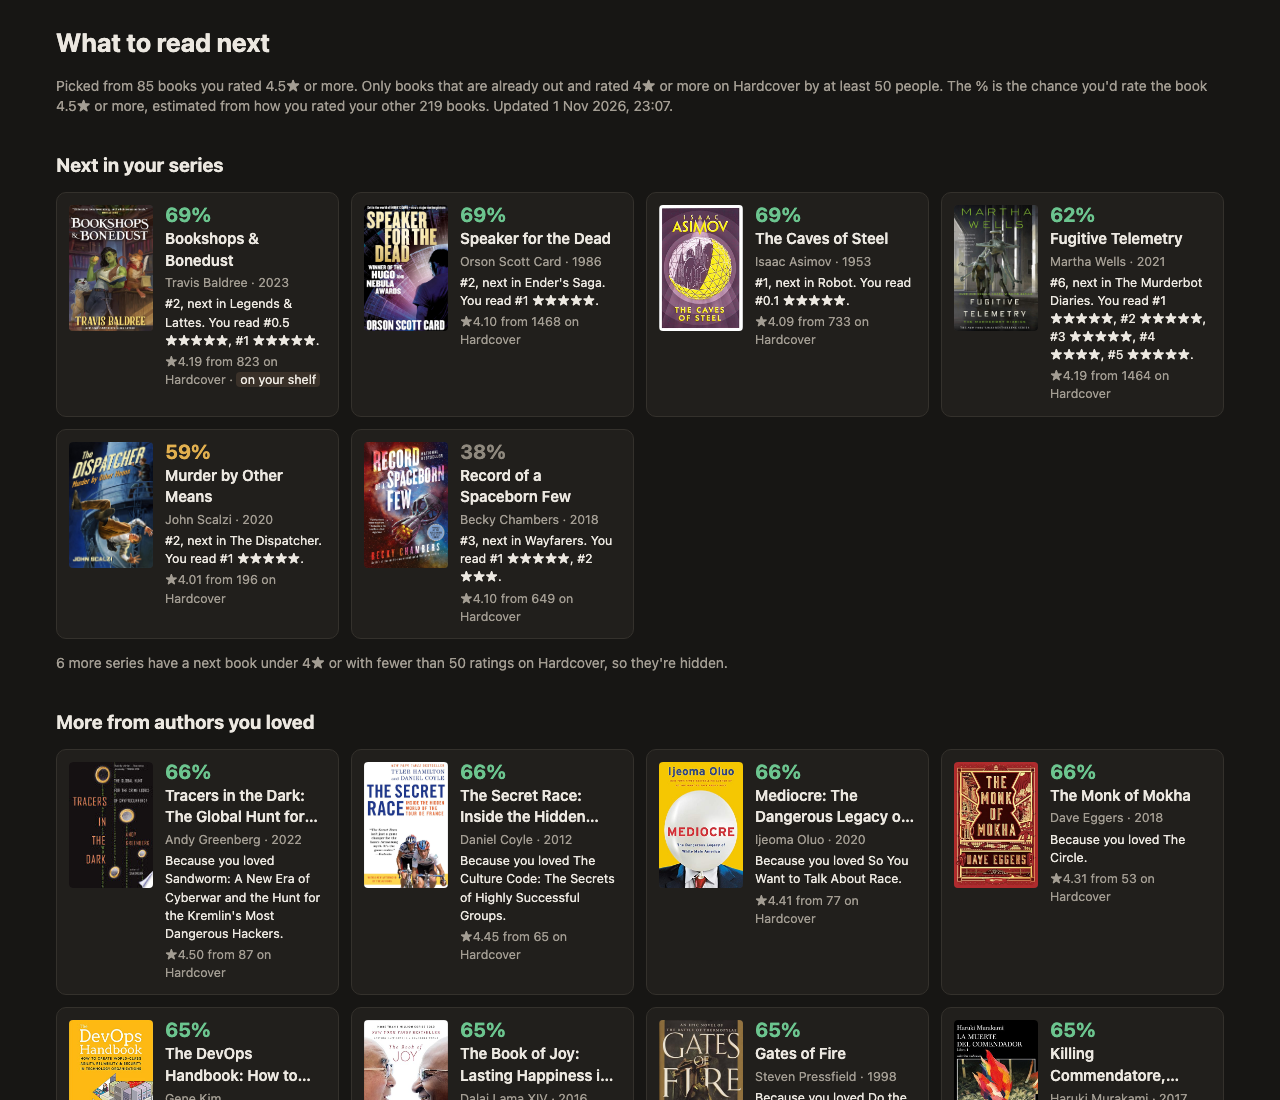
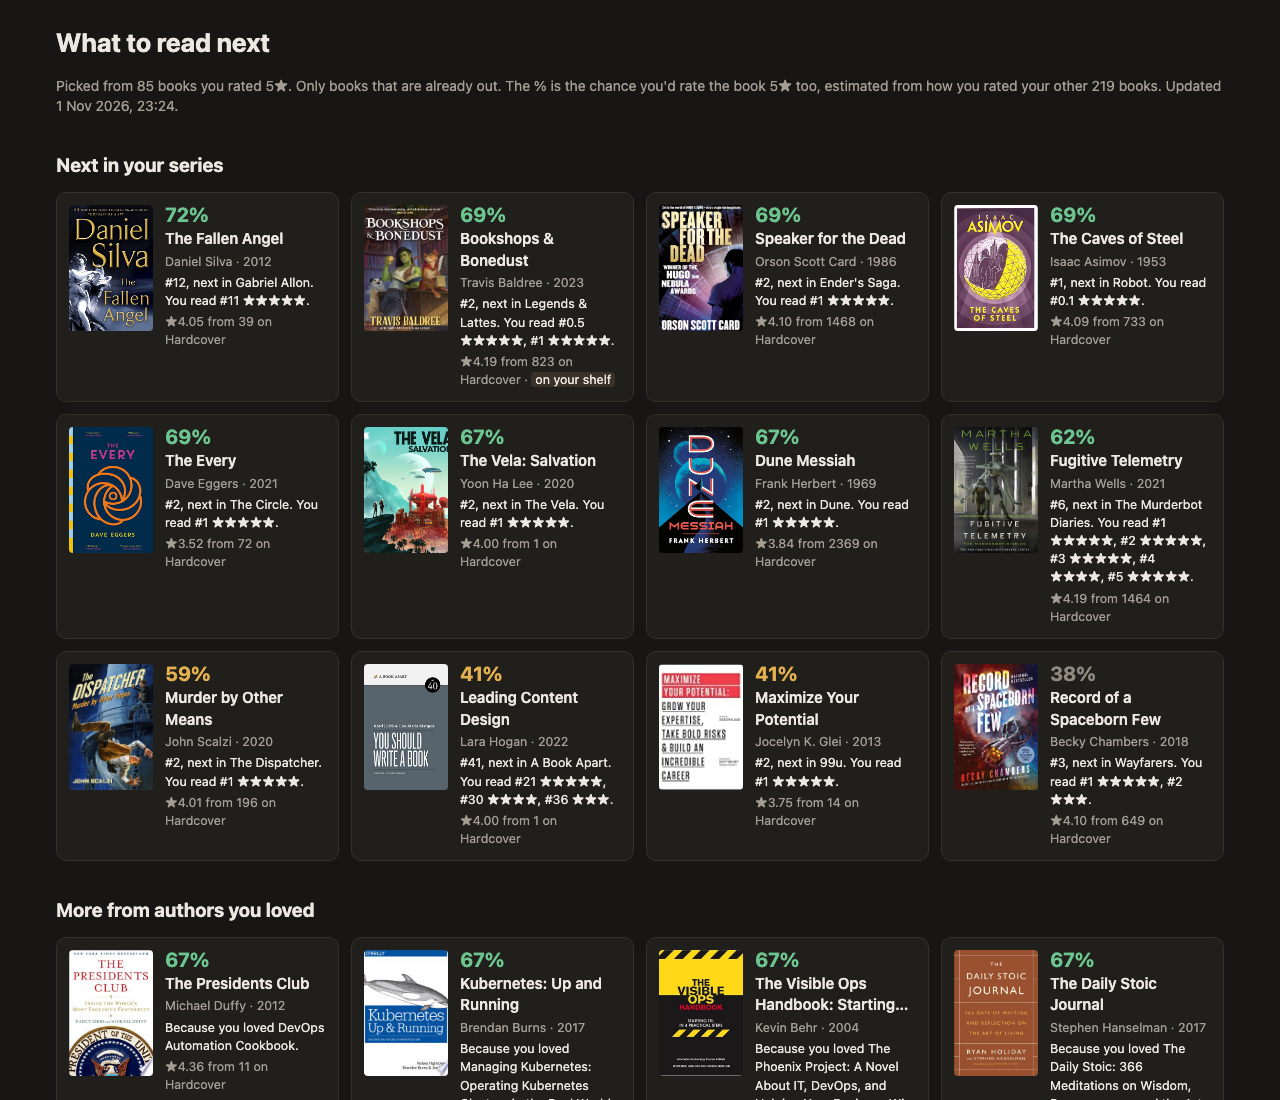
Recommend from 5-star books only and drop the Hardcover rating filter
Hardcover's community rating didn't predict my ratings, so filtering on it
hid good picks like Dune Messiah. One LOVED constant now sets both the
recommendation base and the model target.

diff --git a/README.md b/README.md
@@ -16,13 +16,13 @@ My books live in three places: Goodreads, Kindle (Amazon) and Readwise Books. No
 ## How it works
 
 ```
-Readwise Books ──► match each book on Hardcover ──► loved = finished and rated 4.5★ or more
+Readwise Books ──► match each book on Hardcover ──► loved = finished and rated 5★
 (my library,         (search by title + author,             │
  with my ratings)     checked against the ISBN    ┌─────────┴──────────┐
                       or the author's last name)  series I loved     authors I loved
                                                   next unread book   other books
                                                   └─────────┬──────────┘
-                                         keep: already out, 4.0★+ from 50+ ratings on Hardcover
+                                         keep: already out
                                          add: confidence % from a model trained on my ratings
                                                             │
                                                      out/index.html
@@ -31,7 +31,7 @@ Readwise Books ──► match each book on Hardcover ──► loved = finished
 1. `src/readwise.mjs` pulls the whole library, ratings included.
 2. `src/match.mjs` finds each book on Hardcover. Readwise has no series data, and most of my Goodreads imports have no ISBN, so this match matters most.
 3. `src/recommend.mjs` picks the candidates and filters them.
-4. `src/model.mjs` trains a small logistic regression on my rated books. It predicts "rated 4.5★ or more" from my ratings of the same author, my ratings of the same series, and the book's Hardcover rating.
+4. `src/model.mjs` trains a small logistic regression on my rated books. It predicts "rated 5★" from my ratings of the same author, my ratings of the same series, and the book's Hardcover rating.
 5. `src/render.mjs` writes one static HTML page.
 
 There are no dependencies, just Node 22's built-in `fetch`.
@@ -44,7 +44,7 @@ There are no dependencies, just Node 22's built-in `fetch`.
 
 The first run takes about 6 minutes, because Hardcover's free API allows 60 requests a minute. After that it's quick: search results are cached in `data/hc-cache/`, and series and author data refreshes once a week.
 
-The thresholds are constants at the top of `src/recommend.mjs` (`LIKE_MIN`, `COMMUNITY_MIN`, `COMMUNITY_MIN_RATINGS`) and `src/model.mjs` (`LOVE_MIN`).
+The "loved" bar is `LOVED` at the top of `src/model.mjs`. I don't filter on Hardcover's community rating: it didn't predict my ratings (see below).
 
 ## What my library broke
 
